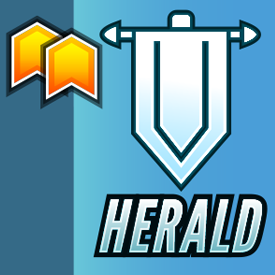
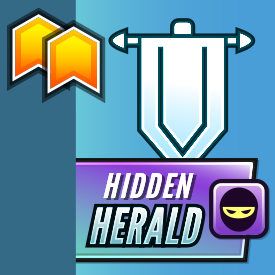
GHOSTS: Hide herald

diff --git a/server/classes/factions/Ghosts.js b/server/classes/factions/Ghosts.js
@@ -13,7 +13,7 @@ class Ghosts extends Faction {
         this.data.title = "The Lost Legion";
         this.data.focusDescription = "Retain areas you control";
         this.data.canPlaceGhostsDuringTokens = true;
-        this.data.flipableUnits = ['spirit','banshee','geist'];
+        this.data.flipableUnits = ['mad-king','banshee','poltergeist'];
         this.data.addUpgradeToControlInfluence = true;
         this.data.controlNeutralSetupArea = true;
 
@@ -58,6 +58,7 @@ class Ghosts extends Faction {
                 influence: 2,
                 noDeploy: true,
                 noMove: true,
+                hidden: true,
                 killed: false,
                 selected: false,
                 hitsAssigned: 0,
@@ -94,7 +95,7 @@ class Ghosts extends Faction {
                 type: 'poltergeist',
                 isChampion: true,
                 basic: false,
-                attack: [6,6],
+                attack: [5,5],
                 noDeploy: true,
                 influence: 0,
                 noMove: true,

diff --git a/server/classes/factions/plans/ghostsPlans.js b/server/classes/factions/plans/ghostsPlans.js
@@ -145,7 +145,7 @@ let obj = [
             },
             {
                 requirements : [
-                    { test : 'tokensInAreas', args : [5] },
+                    { test : 'tokensInAreas', args : [4] },
                 ],
                 value : 1
             },
